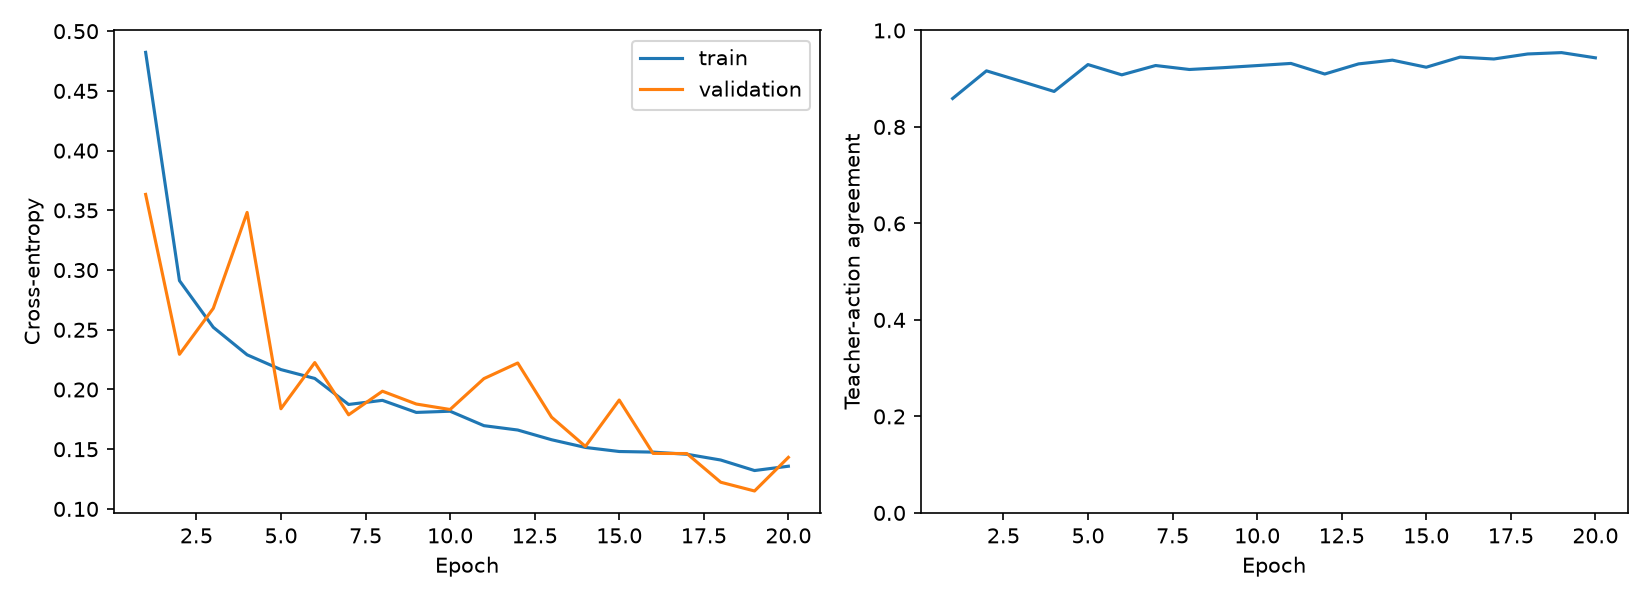
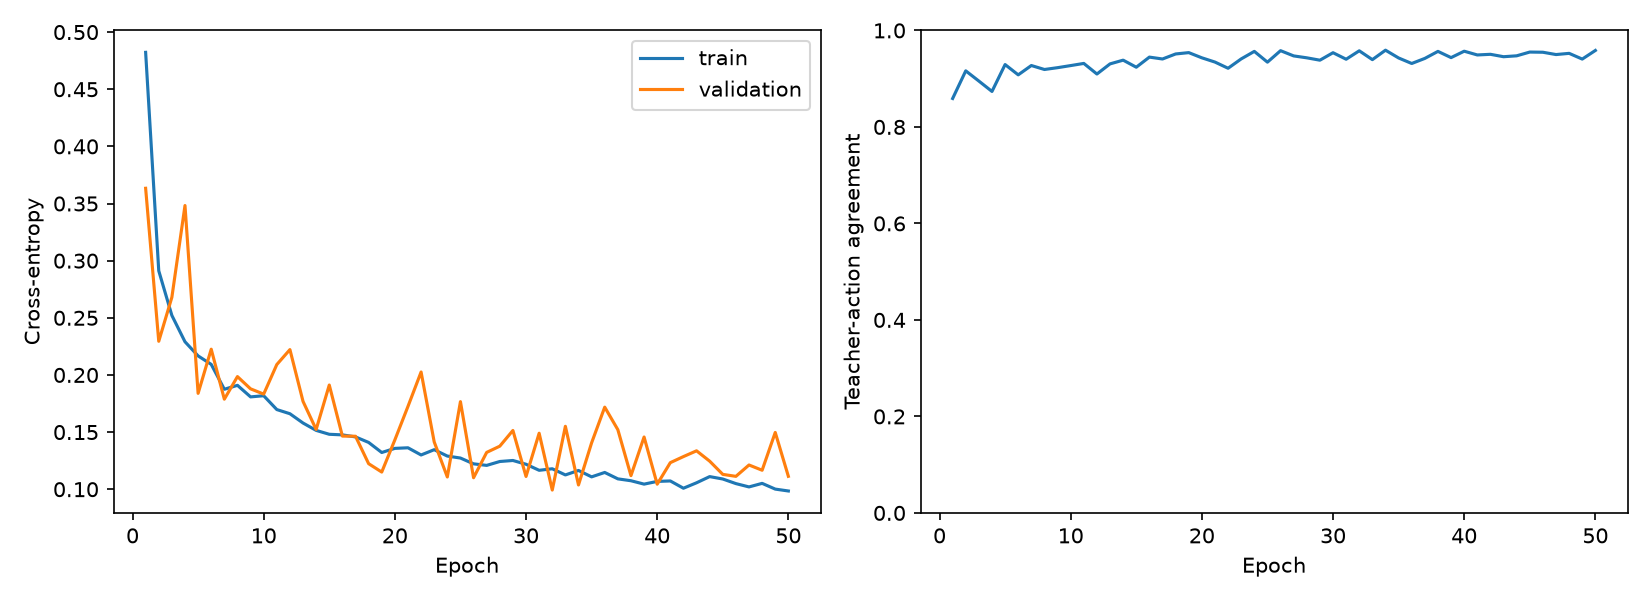
cleaning up

diff --git a/src/evaluate.py b/src/evaluate.py
@@ -1,3 +1,4 @@
+# measures a saved model without training it
 import json
 from pathlib import Path
 
@@ -5,14 +6,15 @@ import numpy as np
 import torch
 from gymnasium.wrappers import FrameStackObservation
 from PIL import Image
+from stable_baselines3 import PPO
 
 from .environment import make_environment
 from .model import GPT, ModelConfig
 
-
 # Edit these settings before running python -m src.evaluate.
-STAGE = "untrained"  # Change to "pretrained" after supervised training.
+STAGE = "untrained"  # Choose "untrained", "pretrained", or "rl".
 CHECKPOINT_PATH = Path("runs/experiment-01/untrained.pt")
+# For RL: Path("runs/experiment-01/rl/best_model.zip") or final.zip.
 EPISODES = 20
 FIRST_SEED = 10000  # Keep identical across model stages for a fair comparison.
 GIF_PATH = None  # Example: Path("assets/untrained.gif"); None skips rendering.
@@ -98,32 +100,33 @@ def evaluate(action_function, context_length, episodes, first_seed, gif_path=Non
 def main():
     if EPISODES < 1:
         raise ValueError("EPISODES must be positive")
-    if STAGE not in ("untrained", "pretrained"):
-        raise ValueError("Use STAGE = 'untrained' or 'pretrained'; RL loading is not implemented yet")
-    
-    # Start with one CPU worker thread to avoid overhead on small networks; benchmark before changing.
-    torch.set_num_threads(1)
+    if STAGE not in ("untrained", "pretrained", "rl"):
+        raise ValueError("Use STAGE = 'untrained', 'pretrained', or 'rl'")
 
-    # TODO - RL evaluation
+    if STAGE == "rl":
+        # SB3 checkpoints are ZIP files containing the GPT, action head, and value head.
+        # Evaluation uses CPU so it also works without the training GPU.
+        agent = PPO.load(CHECKPOINT_PATH, device="cpu")
+        context_length = agent.observation_space.shape[0]
 
-    # Load tensor/dictionary checkpoint data onto CPU so a GPU is not required for evaluation.
-    checkpoint = torch.load(CHECKPOINT_PATH, map_location="cpu", weights_only=True)
-    config = ModelConfig(**checkpoint["config"])
-    model = GPT(config)
-    model.load_state_dict(checkpoint["model"])
+        def choose(history):
+            # Select the most likely action; predict performs inference without learning.
+            action, _ = agent.predict(history, deterministic=True)
+            return int(np.asarray(action).item())
+    else:
+        # Untrained/pretrained stages use our original PyTorch checkpoint format.
+        checkpoint = torch.load(CHECKPOINT_PATH, map_location="cpu", weights_only=True)
+        config = ModelConfig(**checkpoint["config"])
+        model = GPT(config)
+        model.load_state_dict(checkpoint["model"])
+        model.eval()
+        context_length = config.context_length
 
-    # Set evaluation mode 
-    model.eval()
-
-    context_length = config.context_length
-
-    def choose(history):
-        # Choose the action from the logit output of the model 
-        with torch.no_grad():  # Skip recording gradient operations
-            # Convert a (T,8) NumPy history to a float tensor, then add batch axis: (1,T,8).
-            states = torch.as_tensor(history, dtype=torch.float32).unsqueeze(0)
-            # Choose the largest of four logits
-            return int(model(states).argmax(dim=-1).item())
+        def choose(history):
+            with torch.no_grad():
+                # Add the batch axis: (T,8) -> (1,T,8).
+                states = torch.as_tensor(history, dtype=torch.float32).unsqueeze(0)
+                return int(model(states).argmax(dim=-1).item())
     
     results = evaluate(choose, context_length, EPISODES, FIRST_SEED, GIF_PATH)
 

diff --git a/src/plot.py b/src/plot.py
@@ -49,7 +49,9 @@ def plot_pretraining(path="runs/experiment-01/pretrain.csv"):
     fig, axes = plt.subplots(1, 2, figsize=(11, 4))
 
     axes[0].plot(epochs, [float(row["train_loss"]) for row in rows], label="train")
-    axes[0].plot(epochs, [float(row["validation_loss"]) for row in rows], label="validation")
+    axes[0].plot(
+        epochs, [float(row["validation_loss"]) for row in rows], label="validation"
+    )
     axes[0].set(xlabel="Epoch", ylabel="Cross-entropy")
     axes[0].legend()
 
@@ -60,6 +62,28 @@ def plot_pretraining(path="runs/experiment-01/pretrain.csv"):
 
     Path("assets").mkdir(exist_ok=True)
     fig.savefig("assets/pretraining.png", dpi=150)
+    plt.close(fig)
+
+
+def plot_rl(path="runs/experiment-01/rl/evaluations.npz"):
+    with np.load(path, allow_pickle=False) as data:
+        steps = data["timesteps"]
+        scores = data["results"]
+
+    mean, std = scores.mean(axis=1), scores.std(axis=1)
+    fig, ax = plt.subplots(figsize=(8, 4))
+    ax.plot(steps, mean, label="Mean evaluation reward")
+
+    ax.fill_between(
+        steps, mean - std, mean + std, alpha=0.2, label="One episode standard deviation"
+    )
+    ax.axhline(200, color="gray", linestyle="--", label="200-point reference")
+    ax.set(xlabel="Environment steps", ylabel="Episode reward")
+    ax.legend()
+
+    fig.tight_layout()
+    Path("assets").mkdir(exist_ok=True)
+    fig.savefig("assets/rl_rewards.png", dpi=150)
     plt.close(fig)
 
 

diff --git a/src/environment.py b/src/environment.py
@@ -16,12 +16,10 @@ LunarLander has
 import gymnasium as gym
 from gymnasium.envs.box2d.lunar_lander import heuristic
 
-
 # Shared simulator settings; other modules reuse make_environment().
 ENV_ID = "LunarLander-v3"
 CONTINUOUS_ACTIONS = False
 ENABLE_WIND = False
-# Settings for the standalone demo only.
 DEMO_SEED = 0
 DEMO_RENDER_MODE = "human"
 

diff --git a/src/pretrain.py b/src/pretrain.py
@@ -66,7 +66,6 @@ def main():
     print("Training device:", device)
 
     torch.manual_seed(SEED)
-    torch.set_num_threads(1)
 
     checkpoint = torch.load(INITIAL_CHECKPOINT, map_location="cpu", weights_only=True)
     config = ModelConfig(**checkpoint["config"])

diff --git a/src/data.py b/src/data.py
@@ -11,7 +11,6 @@ from torch.utils.data import Dataset
 
 from .environment import CONTINUOUS_ACTIONS, ENABLE_WIND, ENV_ID, make_environment
 
-
 # Edit these settings before running python -m src.data.
 EPISODES = 300
 FIRST_SEED = 0
